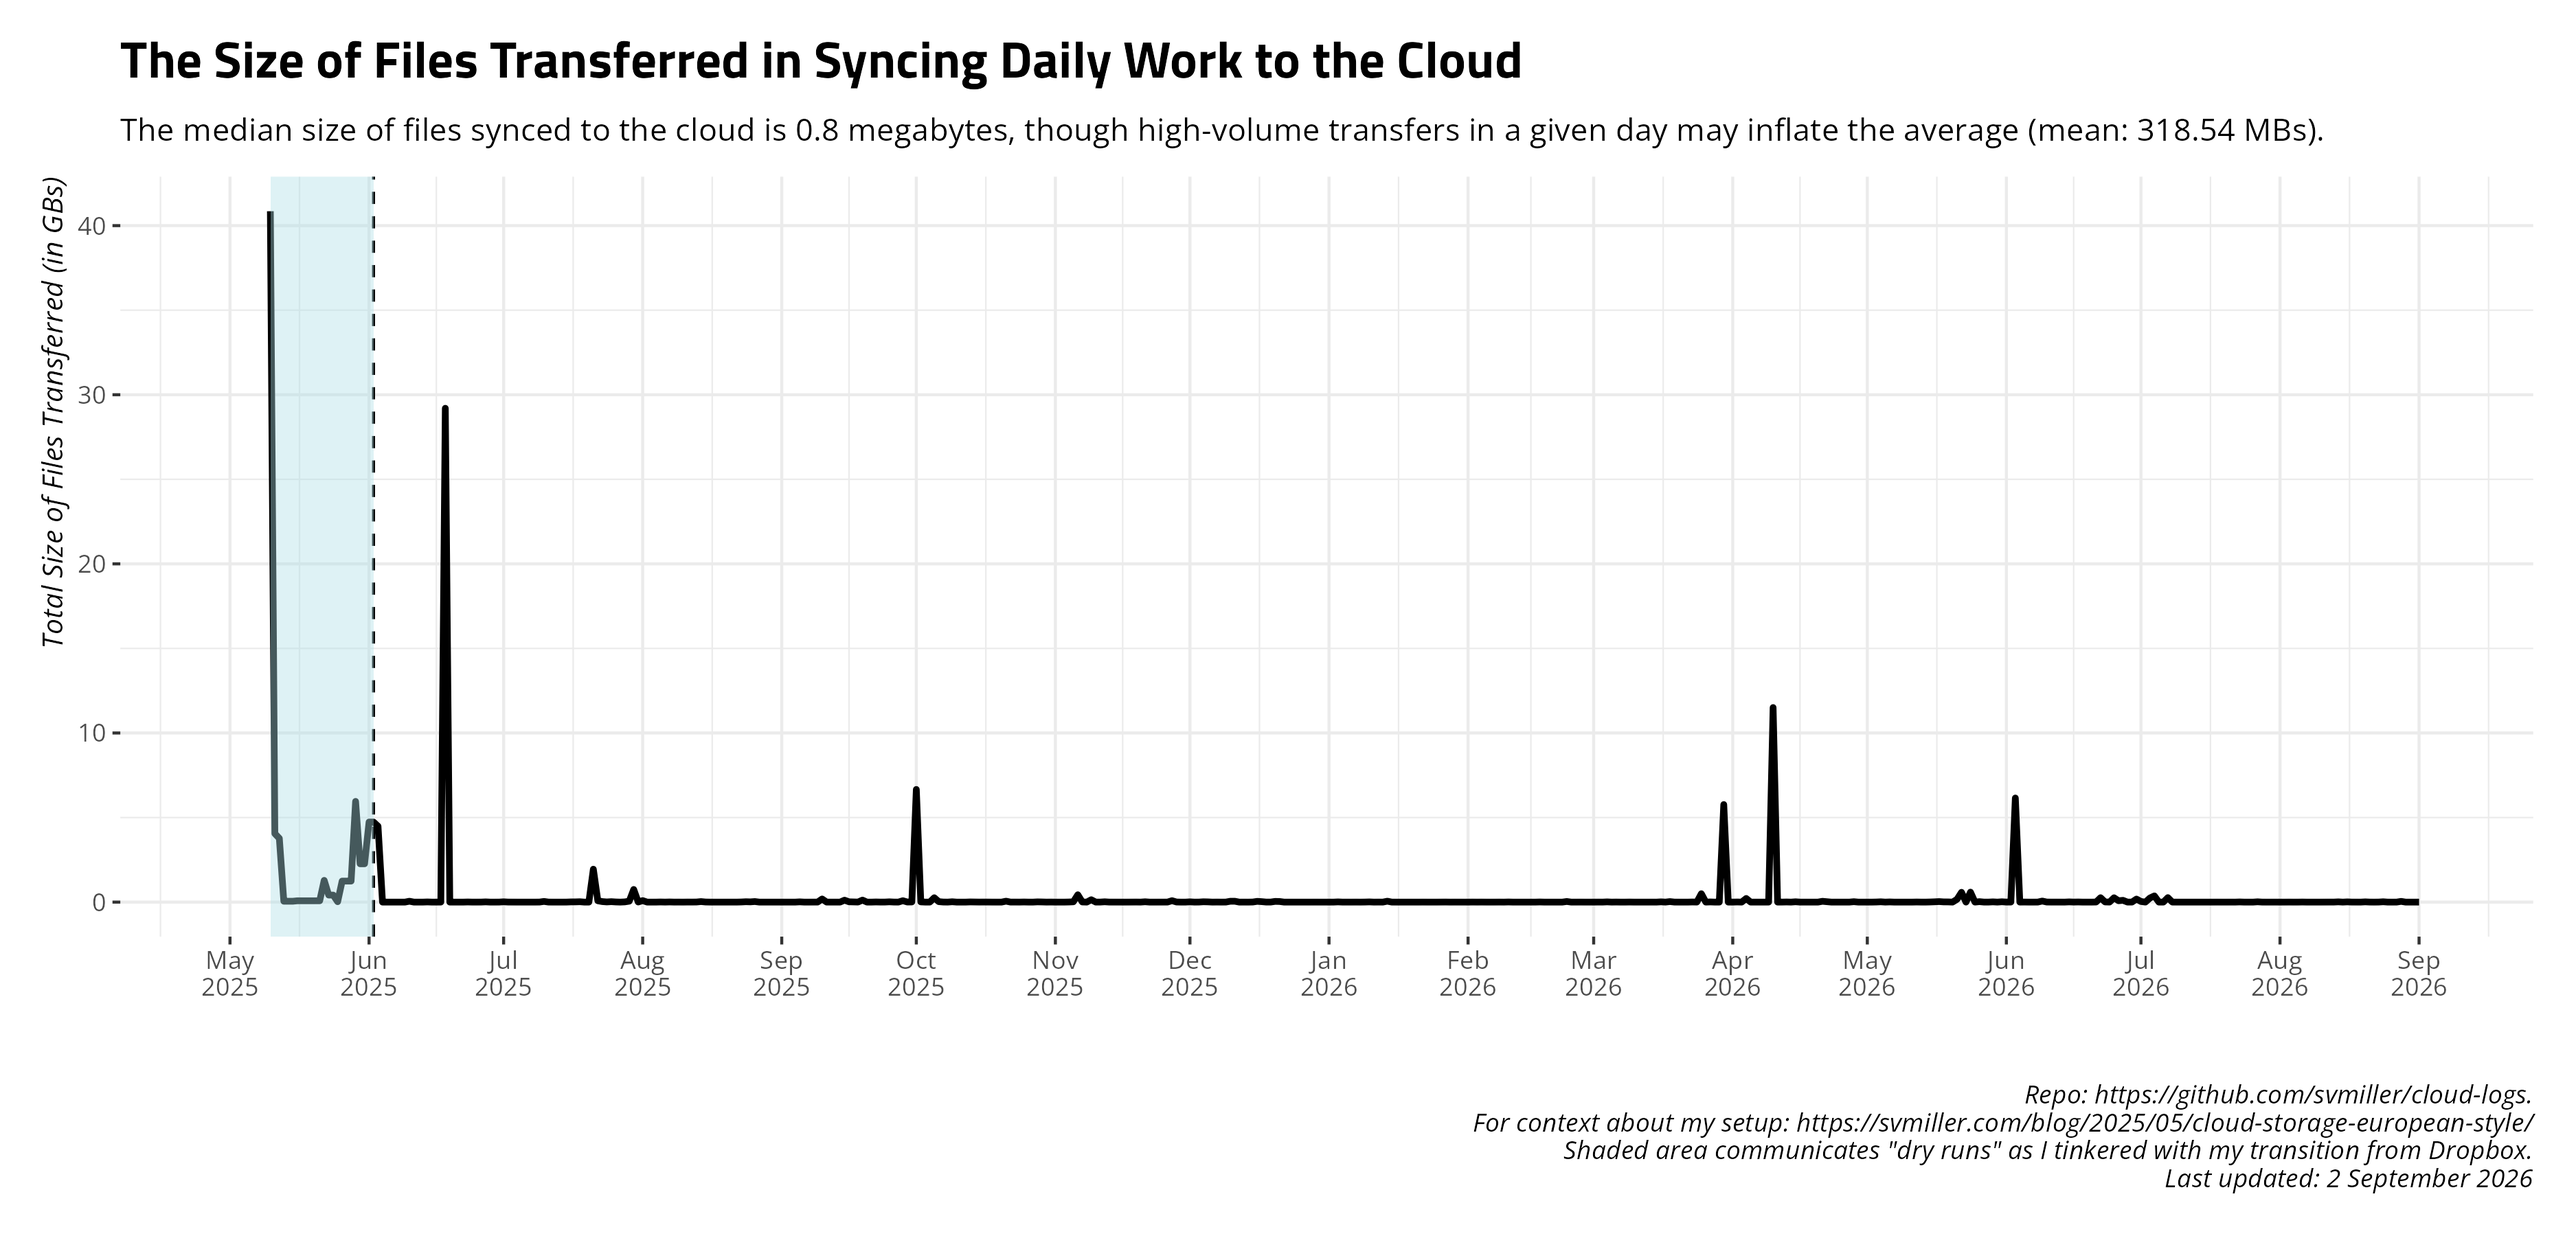
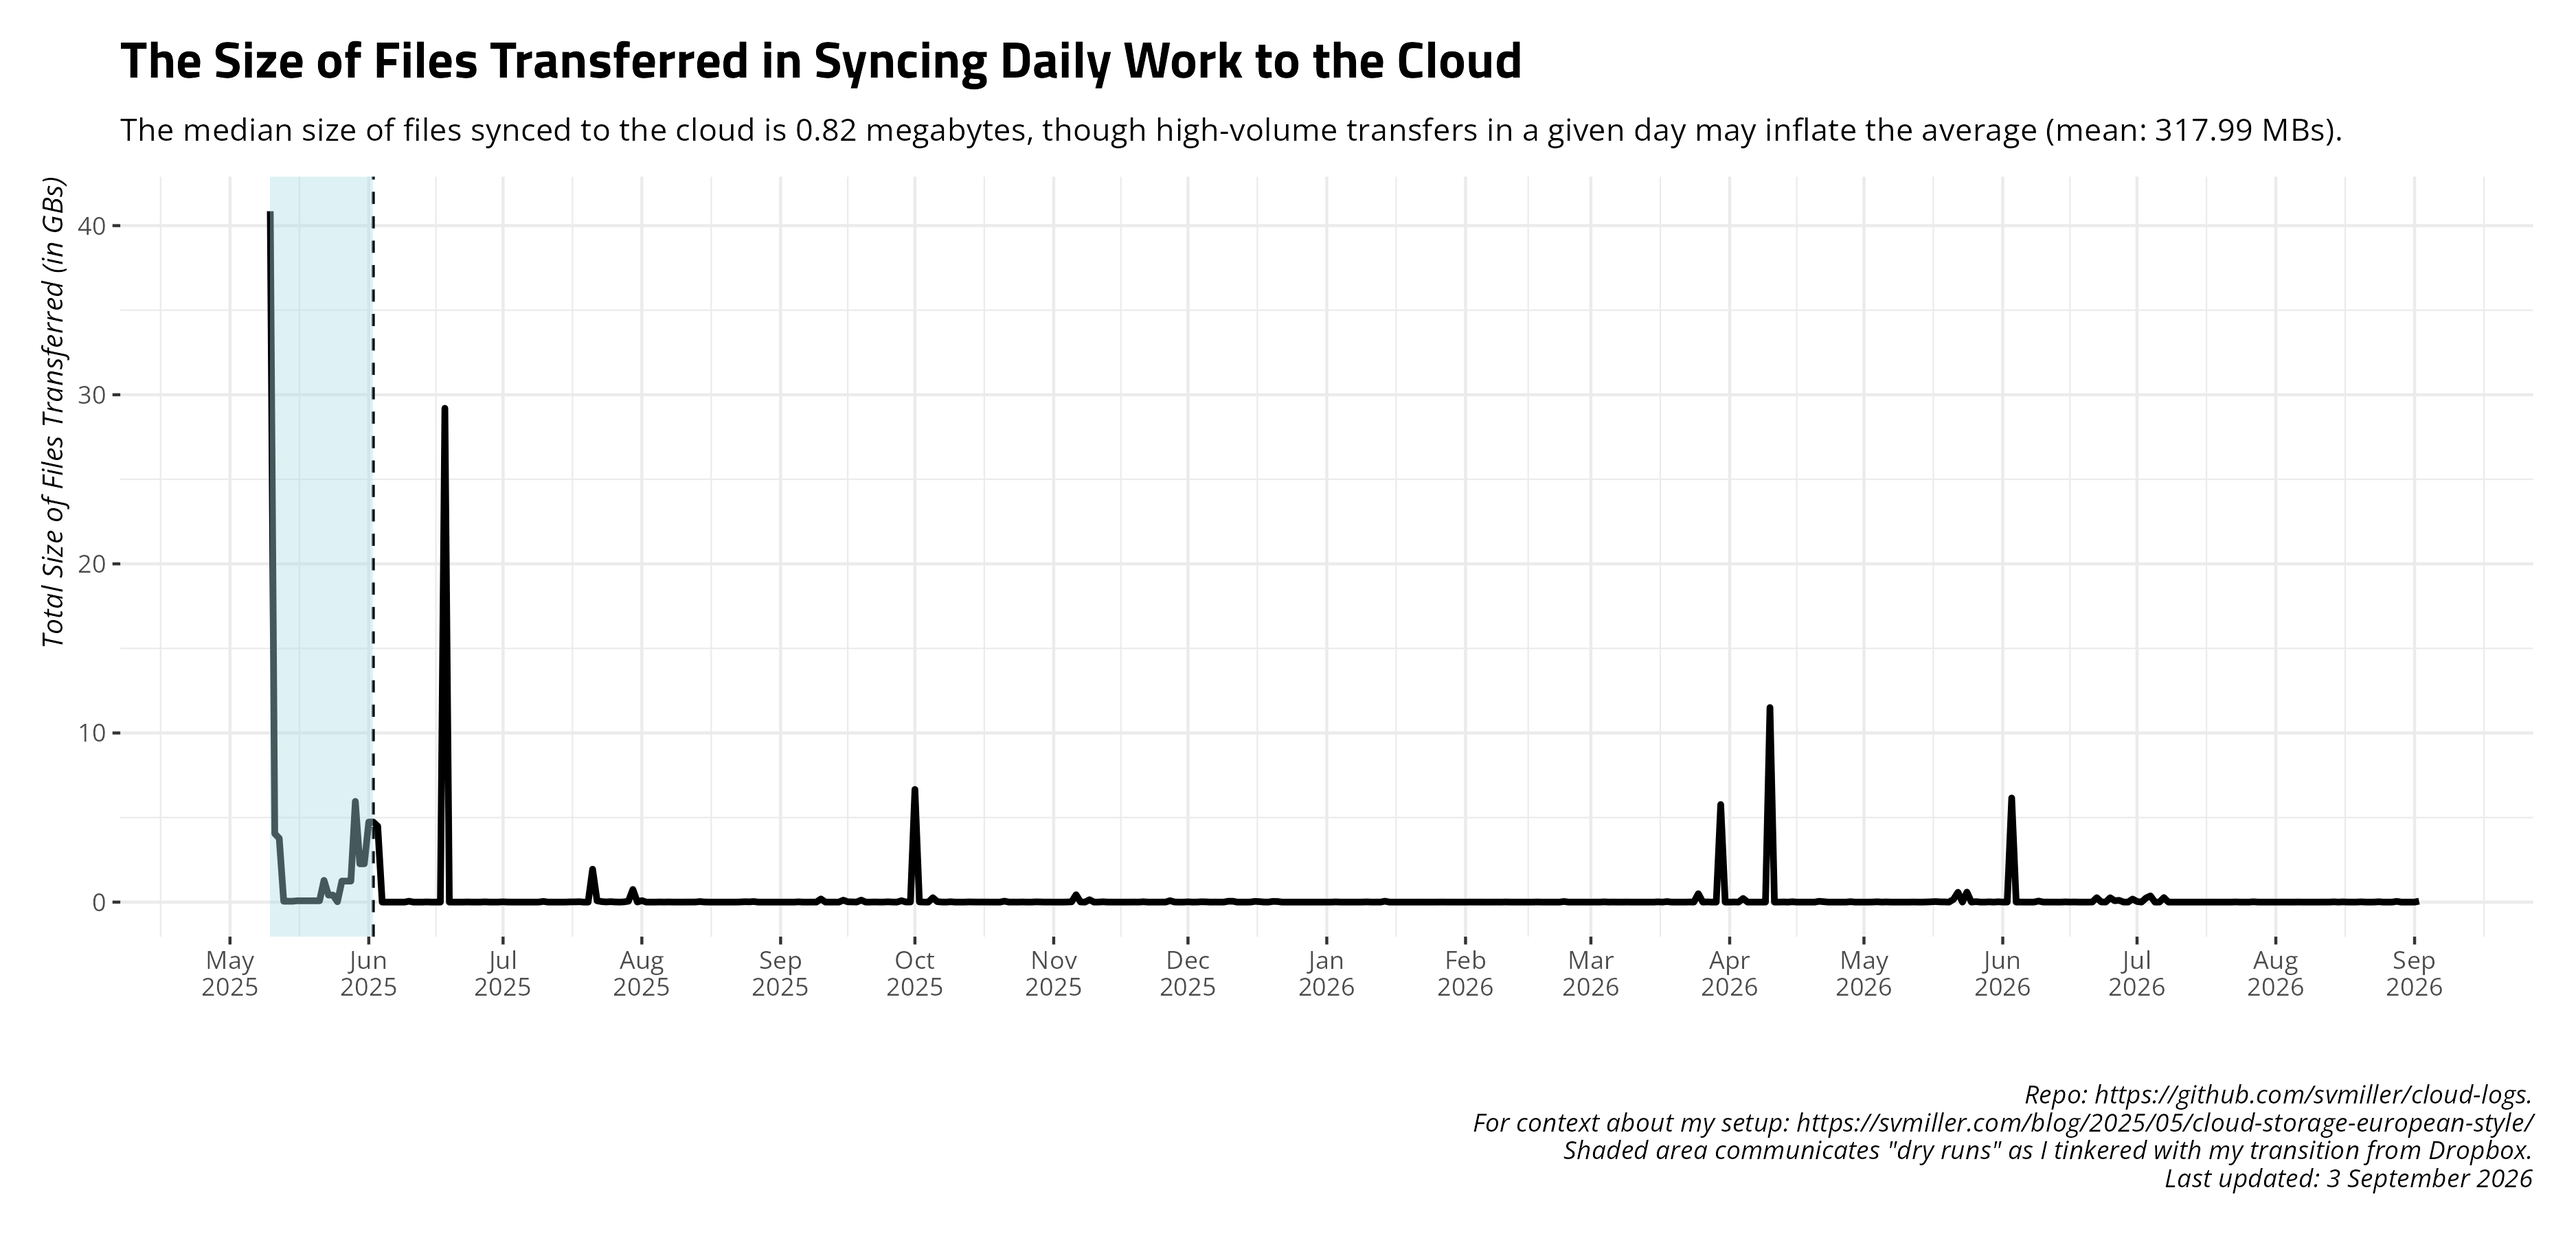
Date: 2026-09-03 09:00:34. Hi mom!

diff --git a/README.md b/README.md
@@ -27,17 +27,17 @@ and uploads to Github.
     #> # A tibble: 14 × 4
     #>    date       ftransfer stransfer   elapsed   
     #>    <date>         <dbl> <chr>       <chr>     
-    #>  1 2026-08-19         4 260.812 KiB 13m2.0s   
-    #>  2 2026-08-20        26 14.666 MiB  25m12.7s  
-    #>  3 2026-08-21        28 2.154 MiB   13m26.9s  
-    #>  4 2026-08-22         2 6.725 KiB   1h3m53.0s 
-    #>  5 2026-08-23        13 2.825 MiB   7m21.9s   
-    #>  6 2026-08-24       112 19.678 MiB  1h39m50.5s
-    #>  7 2026-08-25        43 704.125 KiB 19m45.7s  
-    #>  8 2026-08-26        10 38.500 KiB  11m21.6s  
-    #>  9 2026-08-27        31 697.618 KiB 29m59.2s  
-    #> 10 2026-08-28        15 43.093 MiB  13m43.3s  
-    #> 11 2026-08-29         0 <NA>        11m27.3s  
-    #> 12 2026-08-30         0 <NA>        15m27.8s  
-    #> 13 2026-08-31        33 171.129 KiB 27m17.9s  
-    #> 14 2026-09-01        22 376.333 KiB 8m41.6s
+    #>  1 2026-08-20        26 14.666 MiB  25m12.7s  
+    #>  2 2026-08-21        28 2.154 MiB   13m26.9s  
+    #>  3 2026-08-22         2 6.725 KiB   1h3m53.0s 
+    #>  4 2026-08-23        13 2.825 MiB   7m21.9s   
+    #>  5 2026-08-24       112 19.678 MiB  1h39m50.5s
+    #>  6 2026-08-25        43 704.125 KiB 19m45.7s  
+    #>  7 2026-08-26        10 38.500 KiB  11m21.6s  
+    #>  8 2026-08-27        31 697.618 KiB 29m59.2s  
+    #>  9 2026-08-28        15 43.093 MiB  13m43.3s  
+    #> 10 2026-08-29         0 <NA>        11m27.3s  
+    #> 11 2026-08-30         0 <NA>        15m27.8s  
+    #> 12 2026-08-31        33 171.129 KiB 27m17.9s  
+    #> 13 2026-09-01        22 376.333 KiB 8m41.6s   
+    #> 14 2026-09-02        19 56.660 MiB  21m24.9s
